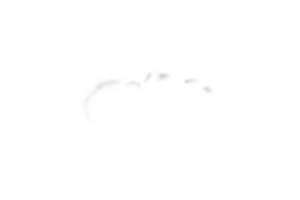
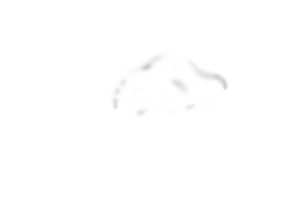
same upgr registration as login screen

diff --git a/ServerRuner/PagesforServer/Register.html b/ServerRuner/PagesforServer/Register.html
@@ -8,17 +8,20 @@
 		<script type='text/javascript' src='/mainButtons.js'></script>
 	</head>
 	<body>
-		<div id="Main2" width="50%"><h1>Registration</h1>
-		Username:
+		<img src="/photoPhotoshop/cloud-1.png" width="20%">
+		<img src="/photoPhotoshop/cloud-2upgr.png" width="55%">
+		<img src="/photoPhotoshop/cloud-3.png" width="20%">
+		<div id="Main2" width="50%"><h1 id="bigtext">Registration</h1>
+			<h4><p class="text">Username:</p></h4>
 		<p><input class='typeinf' id="username" placeholder='Username'/>
-		<p>Password:
+			<h4><p class="text">Password:</p></h4>>
 		<p><input class='typeinf' id="password" placeholder='Password'/>
-		<p>Repeat Password:
+			<h4><p class="text">Repeat Password:</p></h4>
 		<p><input class='typeinf' id="repassword" placeholder='Password'/>
-		<p>Phone number*:
+			<h4><p class="text">Phone number*:</p></h4>
 		<p><input class='typeinf'placeholder='Phone number'/>
 		<p><input id='registbtn' type='button' value='Create account' onclick="Mainer()"/>
-		<p><a id='Register' href="login">Login</a>
+	<p><a id='Register' href="login">Login</a></p>
 		<script type='text/javascript'>
 		function Mainer(){
 		}

diff --git a/ServerRuner/PagesforServer/Login.html b/ServerRuner/PagesforServer/Login.html
@@ -15,7 +15,7 @@
 		<div id="Main" width="50%"><h1 id="bigtext">LOGIN</h1>
 			<h4><p class="text">Username:</p></h4>
 			<p><input id='username' class='typeinf' placeholder='Username'/>
-			<h4><p class="text">Password:</h4>
+				<h4><p class="text">Password:</p></h4>
 			<p><input id='password' class='typeinf' placeholder='Password'/>
 			<p><input id='enter' type='button' value='Enter' onclick="Mainer()"/>
 				<p><a id='Register' href="registration">Regist</a>

diff --git a/ServerRuner/response/public/main.css b/ServerRuner/response/public/main.css
@@ -22,9 +22,13 @@ body{
 
 }
 #Main2{
+	height:600px;
+    min-height:1200px;
 	margin-right:105px;
-	min-height:1200px;
-	margin-top:140px;
+	margin-left:60px;
+	margin-top:200px;
+	margin-bottom:2000px;
+	padding:200px;
 	text-align:center;
 
 
